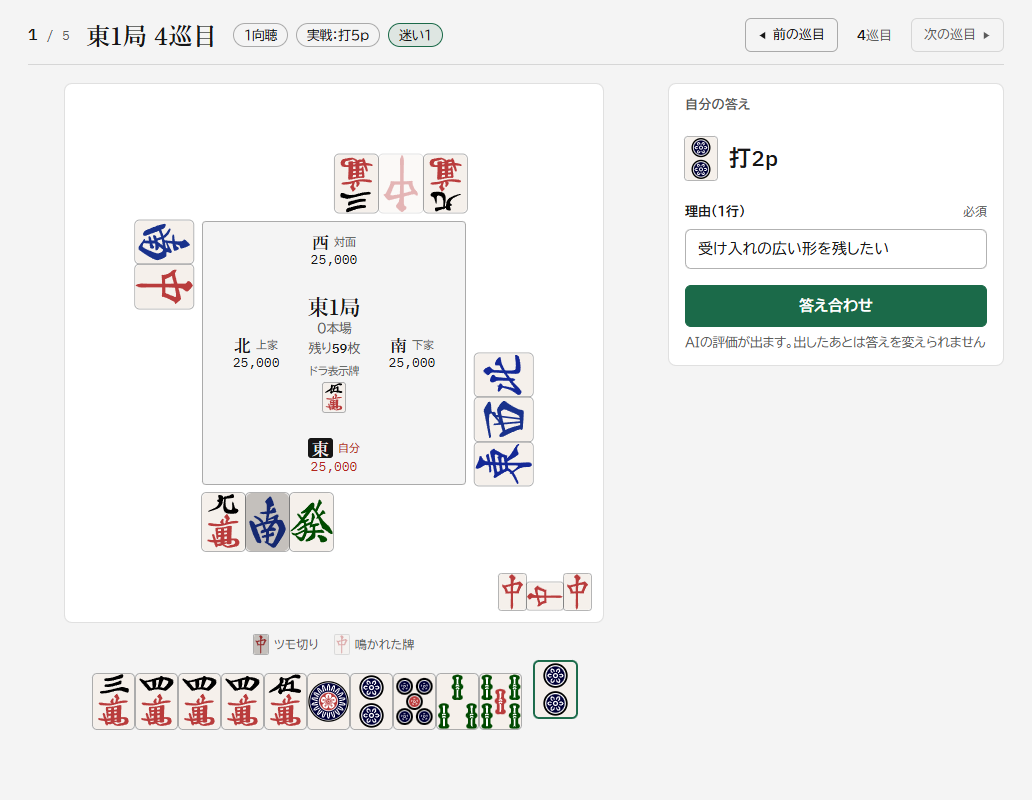
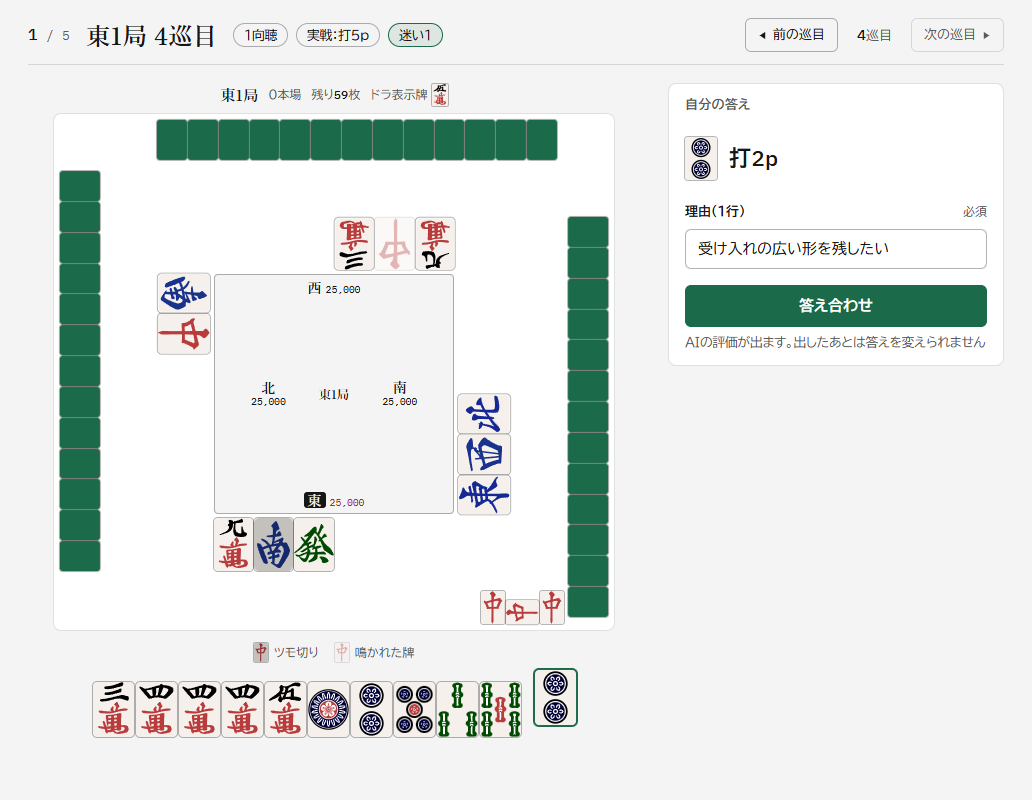
READMEの画面写真を、盤面に他家の手牌が付いた画面に撮り直す
- 新しい写真: replay-hands.png（放銃した局の終わりで他家の手牌を開いた通して見る画面。聴牌になった打牌の枠・他家ごとの聴牌の1行と折れ線・位置の帯の目盛り）
- 撮り直した写真（盤面・タブの並びが変わったもの）: replay.png・quiz-question.png・quiz-reveal.png・quiz-waits.png。作った実行ファイルから、写真の道具で撮った
- 使われなくなった「eye」アイコンを消す。NowPanel の説明の文を直す

Claude-Session: https://claude.ai/code/session_01PVHJJFThHEQFQsBeLXq5Td

diff --git a/apps/desktop/src/main/replay/NowPanel.tsx b/apps/desktop/src/main/replay/NowPanel.tsx
@@ -17,7 +17,7 @@ interface NowPanelProps {
   scenes: readonly ReplayScene[];
   answered: ReadonlySet<string>;
   go: (g: number) => void;
-  /** 右の欄の上に出す欄（「他家の手牌を開く」を開いているとき）。 */
+  /** 右の欄の上に出す欄（他家の手牌を開いているとき。R16-7）。 */
   above?: ReactNode;
 }
 

diff --git a/apps/desktop/src/main/Icon.tsx b/apps/desktop/src/main/Icon.tsx
@@ -104,12 +104,6 @@ const PATHS = {
       <path d="m9 14 2 2 4-4" />
     </>
   ),
-  eye: (
-    <>
-      <path d="M2 12s3.5-7 10-7 10 7 10 7-3.5 7-10 7S2 12 2 12Z" />
-      <circle cx="12" cy="12" r="3" />
-    </>
-  ),
   chevronDown: <path d="m6 9 6 6 6-6" />,
   chevronLeft: <path d="m15 18-6-6 6-6" />,
   chevronRight: <path d="m9 18 6-6-6-6" />,
